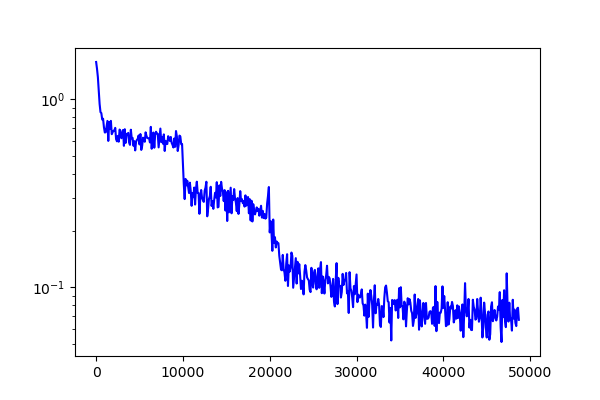
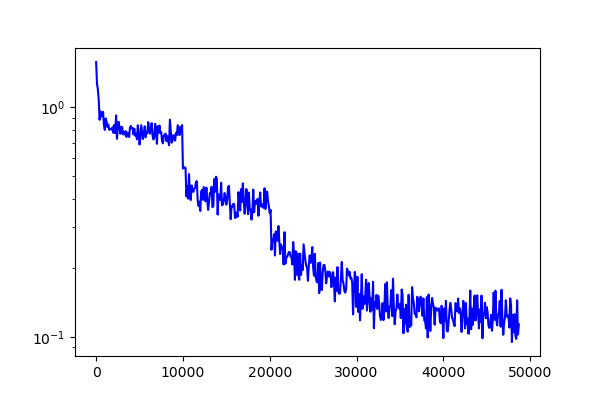
further questions update

diff --git a/step0c_alternatr_lr_test.py b/step0c_alternatr_lr_test.py
@@ -1,0 +1,56 @@
+"""
+
+does SGD on a pure quadratic function with added noise, to see what the loss landscape looks like
+
+"""
+
+import numpy as np
+import matplotlib.pyplot as plt
+
+# our optimisation variable
+x = np.array([1.0])
+
+# we're optimising f(x) = alpha * x^2
+alpha = 1
+
+# learning rate
+lr1 = 0.40
+lr2 = 20
+gamma = 0.0
+
+# this is the gradient noise
+noise_std = 0.05
+
+f_values = []
+
+# plot exponential moving average
+gamma_plot = 0.9
+f_moving_average = 0
+v = 0
+
+for i in range(2000):
+
+    lr = lr1 if (i % 3) != 0 else lr2
+
+    # append values once in a while
+    fn_val = alpha * x ** 2
+    f_moving_average = gamma_plot * f_moving_average + (1.0 - gamma_plot) * fn_val
+    f_values.append(f_moving_average / (1.0 - gamma_plot ** (i + 1)))
+
+    # compute gradient and add noise
+    random_factor = np.random.randn(1)
+    gradient = 2 * alpha * (x - noise_std * random_factor)
+
+    # do gradient descent with noise
+    v = gamma * v + gradient
+    x -= lr * v
+
+
+plt.plot(np.array(f_values), color='blue', label='sgd')
+
+plt.xlabel('iteration')
+plt.ylabel('loss')
+plt.yscale('log')
+plt.legend()
+plt.title('SGD with alternate lr')
+plt.show()

diff --git a/step1a_train_cifar10.py b/step1a_train_cifar10.py
@@ -111,12 +111,19 @@ if __name__ == "__main__":
     last_accuracy = [0]
 
     start = time.time()
+
+    all_indices = np.random.permutation(np.arange(n_data))
+    all_indices = np.concatenate([all_indices, all_indices[:batch_size].copy()])
+
     for iter in range(n_iter):
 
         model.train()
 
         # sample batch, send to gpu
-        batch_indices = np.random.permutation(np.arange(n_data))[:batch_size]
+        n_diff_between_batch = 256
+        i1 = (iter*n_diff_between_batch) % n_data
+        i2 = i1 + batch_size
+        batch_indices = all_indices[i1:i2]
 
         # batch_indices_total.append(t.from_numpy(batch_indices))
 
@@ -142,8 +149,8 @@ if __name__ == "__main__":
 
             print(f"i:{iter}/{n_iter} --- time remaining:{time_remaining:.1f}s --- loss:{plot_average.item():.7f} --- top-1:{last_accuracy[0]:.4f} --- top-5: {last_accuracy[-1]:.4f}")
 
-        if iter%100 == 0:
-            t.save(model.state_dict(), f'models/resnet9_cifar10/model_{iter}.pth')
+        # if iter%100 == 0:
+        #     t.save(model.state_dict(), f'models/resnet9_cifar10/model_{iter}.pth')
 
 
         # changing learning rate once in a while

diff --git a/README.md b/README.md
@@ -325,7 +325,6 @@ This simplified model also provides a possible explanation for the "Edge Of Stab
 3. While we oscillate in the high- $\lambda$ directions, negative eigenvalues don't go away because we keep jumping over the narrow region where the negative values would disappear.
 4. When we finally decrease the learning rate (or increase the batch size) by some fixed amount, two things happen: first, the high- $\lambda$ directions drop to a lower equilibrium level, which quickly drops the loss. Then, because we're now oscillating at a lower level, we can correctly "see" the gradient in the narrowing valley directions, this lets us optimise those directions, leading to a further drop in loss. 
 5. We settle into a new equilibrium at some point down the narrow valley, the largest eigenvalue of the Hessian increases to reflect the narrowing walls of the new equilibrium point (Edge of Stability effect), and the whole process repeats at the next learning rate drop.
-6. 
 
 This story seems to concisely explain the "4 mysteries" of training neural networks that we considered at the beginning of this post. Sharp loss decreases, high-batch-low-lr equivalence, the edge of stability, and persistent negative eigenvalues are all effects that naturally fall out of a stochastic landscape where some directions have narrowing valleys.
 
@@ -347,6 +346,7 @@ And we see a very robust decrease in the magnitude of negative eigenvalues as we
 ## 9. Conclusion and Further Questions <a name="9-conclusion"></a>
 
 Future directions:
+- Why does it take so long to optimise neural networks? Can use the narrowing valley hypothesis to build a model which lets us accurately predict the loss given a learning rate schedule and optimisation algorithm?
 - Are there many different narrowing valleys we could fall down into? i.e. if we're oscillating at equilibrium at some learning rate, does the particular point at which we decide to drop the learning rate send us down different narrowing valleys? Or does it not matter?
 - How much support do the high eigenvectors have over the data? i.e. are the high eigenvalues due to all datapoints having large dependence on those directions, or do a small number of points have an outsized impact on them?
 - Do these results generalise to larger Resnets, what about transformer architectures?
